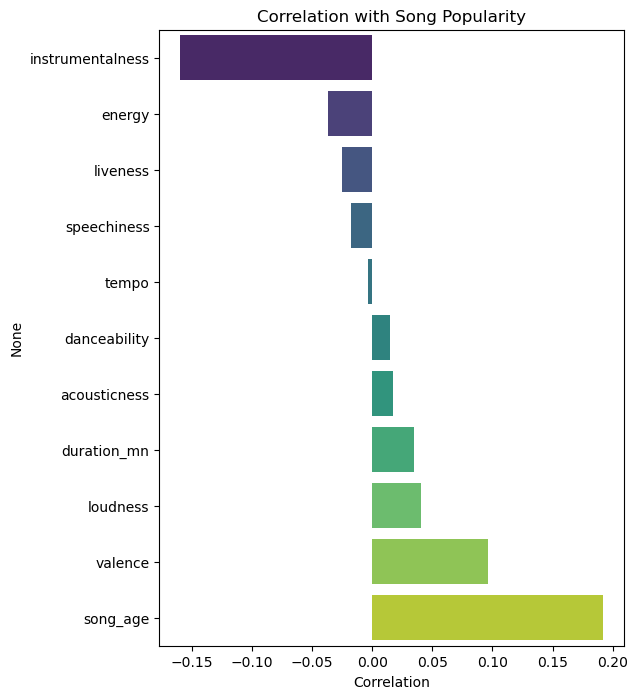
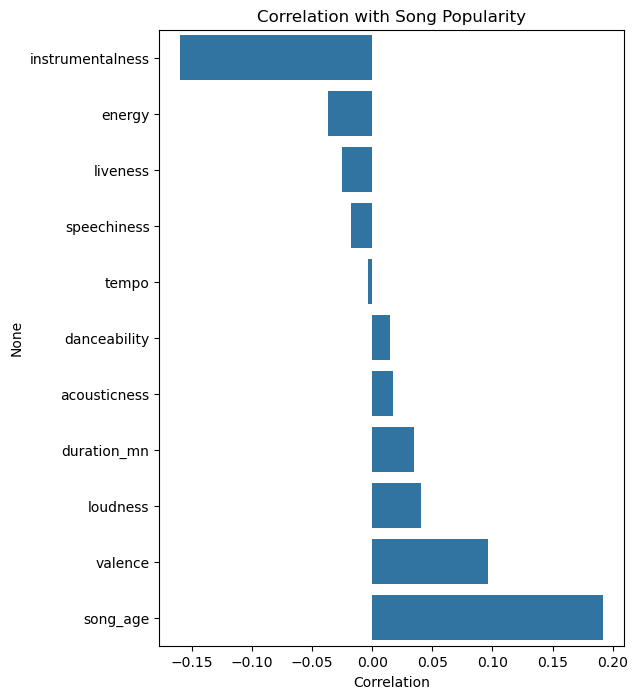
README adjustments

Changed region(s): [[0.268, 0.03, 0.953, 0.9313]]

diff --git a/README.md b/README.md
@@ -17,6 +17,7 @@ Expected output : Comparison of regression models using R^2, RMSE, and MAE metri
 ## Project Structure
 spotify-reco/
 ├── main.py # Main entry point
+├── project_report.pdf #PDF Report
 ├── src/ # Source code
 │ ├── dataloader.py # Data loading and preprocessing
 │ ├── models.py # Model training
@@ -25,10 +26,15 @@ spotify-reco/
 ├── data/
 │ ├── raw/ # Raw datasets
 │ └── processed/ # Cleaned dataset used for modeling
-├── results/ # Output metrics and figures
+├── results/ # Figures
 │ ├── metrics.csv
-│ ├── feature_importance_random_forest.png
-│ └── feature_importance_xgboost.png
+│ ├── actual_vs_pred_linear_regression.png
+│ ├── actual_vs_pred_ridge_regression.png
+│ ├── actual_vs_pred_random_forest.png
+│ ├── actual_vs_pred_xgboost.png
+│ ├── correlation_w_popularity.png
+│ ├── popularity_histogram.png
+│ └── residuals_xgboost.png
 └── environment.yml # Project dependencies
 
 ## Results
@@ -56,4 +62,4 @@ Winner : Tree-based models (Random Forest and XGBoost) achieved the highest pred
 
 ## Requirements
 - Python 3.10+
-- pandas, numpy, scikit-learn, matplotlib, seaborn, xgboost
+- pandas, numpy, scikit-learn, matplotlib, seaborn, xgboost, spotipy

diff --git a/AI_USAGE.md b/AI_USAGE.md
@@ -1,0 +1,6 @@
+The following tools were used during the preparation of this project:
+• ChatGPT (OpenAI): used as support for improving text clarity and resolving Python
+errors.
+• GitHub Copilot (integrated in Visual Studio Code): used for code autocompletion.
+All analysis and conclusions are the author’s own work.
+
